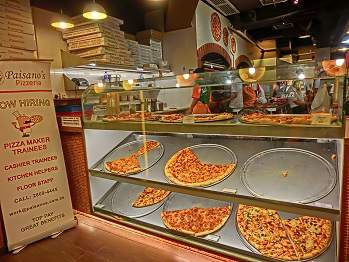
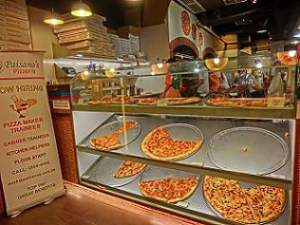
first commit

diff --git a/index.html b/index.html
@@ -8,6 +8,7 @@
     <title>Cameron Pittman: Portfolio</title>
 
     <!-- Hmm, what is the impact of web fonts on speed? Measure it... -->
+    <!-- This link was causing an average 18ms to try and load.-->
     <!--<link href="//fonts.googleapis.com/css?family=Open+Sans:400,700" rel="stylesheet">-->
 
     <link href="css/style.css" rel="stylesheet">
@@ -59,13 +60,13 @@
           </li>
 
           <li>
-            <!--Compressed image by 17%-->
+            <!--Compressed image using online jpg compressor-->
             <img style="width: 100px;" src="views/images/pizzeria.jpg">
             <a href="views/pizza.html">Cam's Pizzeria</a>
             <p>Who wants a performant pizza?</p>
           </li>
         </ul>
-      </div> <!--Missing close container-->  
+      </div> <!--Missing div close container-->  
     </div>
 
     <footer>
